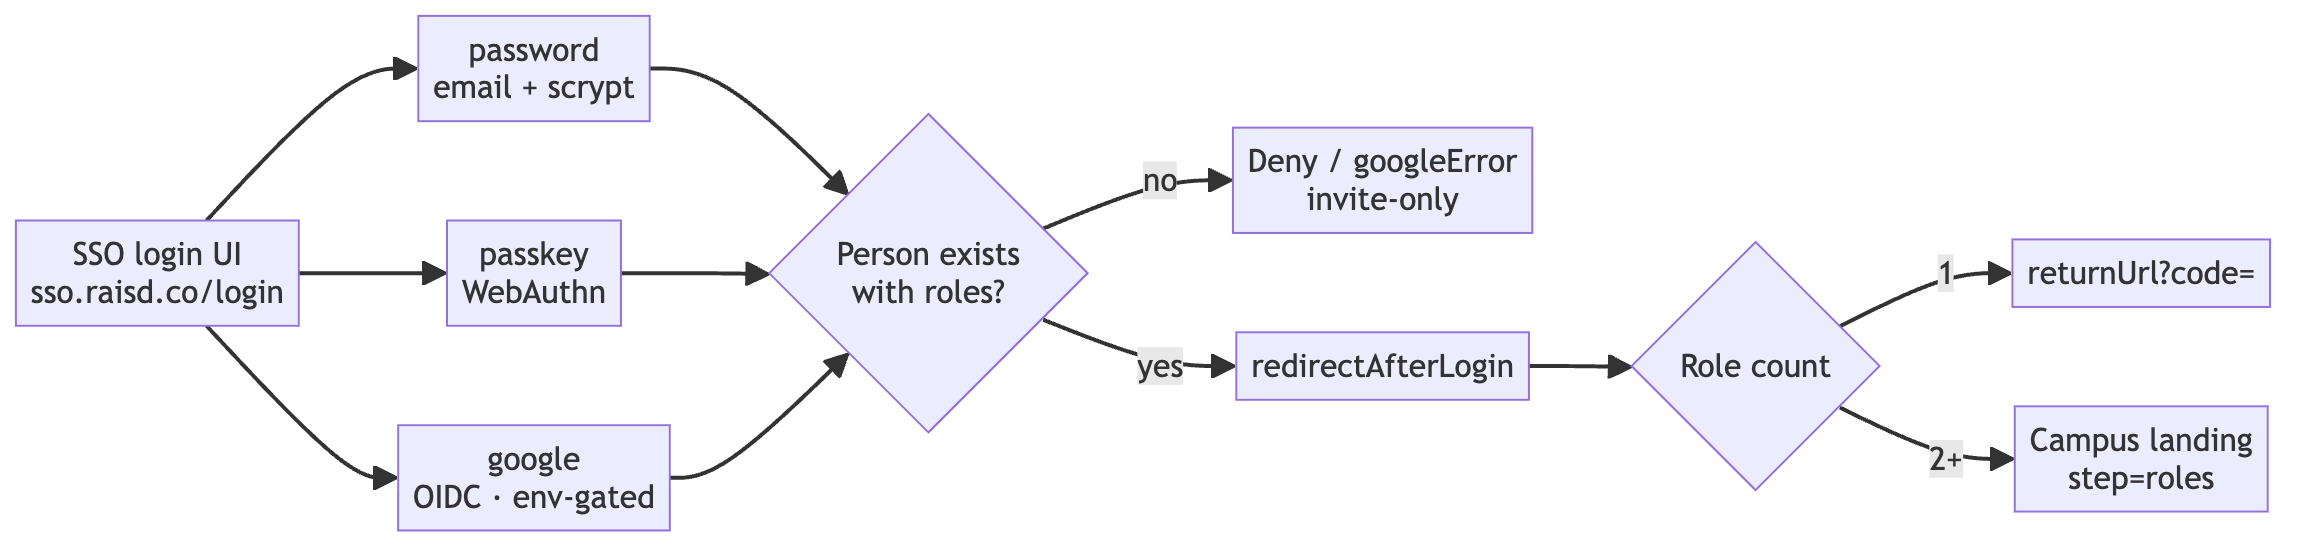
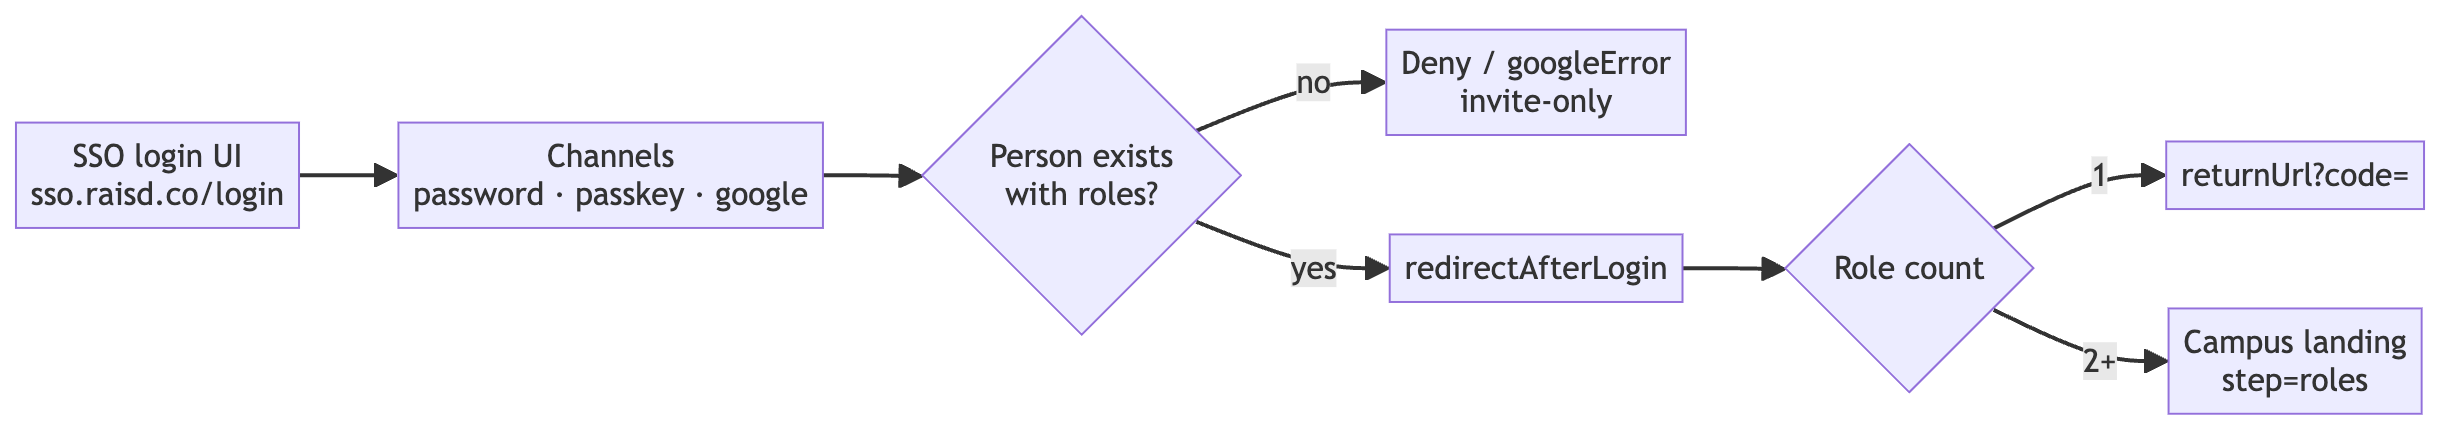
Mirror flattened left-to-right SSO login-channel diagram.

diff --git a/diagrams/sso/index.html b/diagrams/sso/index.html
@@ -168,10 +168,9 @@
     <figure class="figure">
       <img src="images/02-login-channels.png" alt="Diagram: password, passkey, and Google channels converge on invite-only person match then redirectAfterLogin" width="1400" height="auto" loading="lazy" />
       <figcaption>
-        The login UI shows password first, then a side-by-side <strong>Google</strong> + <strong>Passkey</strong> row when those channels are enabled.
-        Every channel resolves to the same email identity. Unknown Google emails get
-        <code>/login?googleError=…</code> — no auto-provision. One role continues with
-        <code>?code=</code>; several roles open the campus landing picker.
+        One left-to-right pipeline: login UI → channels (password · passkey · google) → invite-only person check →
+        <code>redirectAfterLogin</code> → single-role <code>?code=</code> or multi-role campus picker.
+        Unknown Google emails get <code>/login?googleError=…</code> — no auto-provision.
       </figcaption>
     </figure>
 
